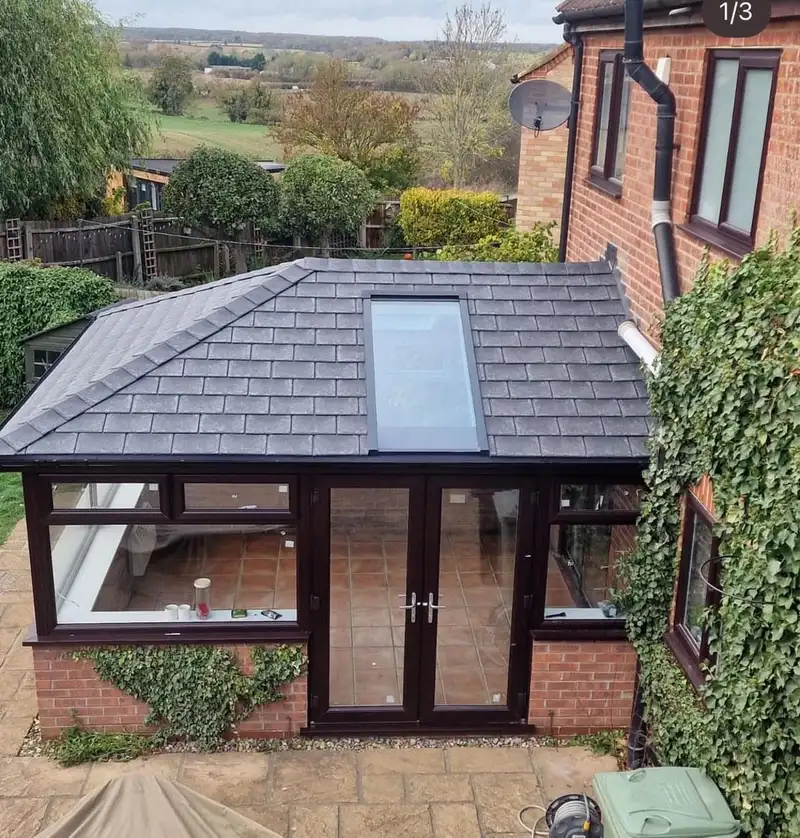
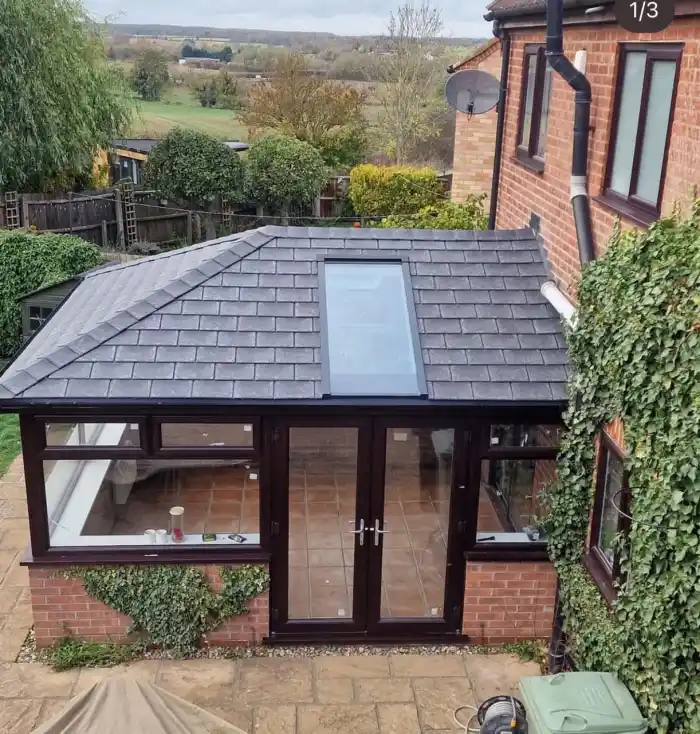
Perf: further compress images, add Facebook preconnect hints
- quiz-orangery.webp: 100 KB → 52 KB (q70, 800px)
- quiz-warmroof.webp: 101 KB → 58 KB (q38, 700px)
- logo.webp: 25 KB → 8.7 KB (q60, alpha_q 50, 400px)
- Add preconnect/dns-prefetch for connect.facebook.net

Changed region(s): [[0.54, 0.2698, 0.57, 0.2997], [0.24, 0.8093, 0.27, 0.8392]]

diff --git a/app/layout.tsx b/app/layout.tsx
@@ -28,6 +28,8 @@ export default function RootLayout({
           href="/images/hero-main.webp"
           type="image/webp"
         />
+        <link rel="preconnect" href="https://connect.facebook.net" />
+        <link rel="dns-prefetch" href="https://connect.facebook.net" />
       </head>
       <body className={`${inter.variable} font-sans antialiased`}>
         {children}
